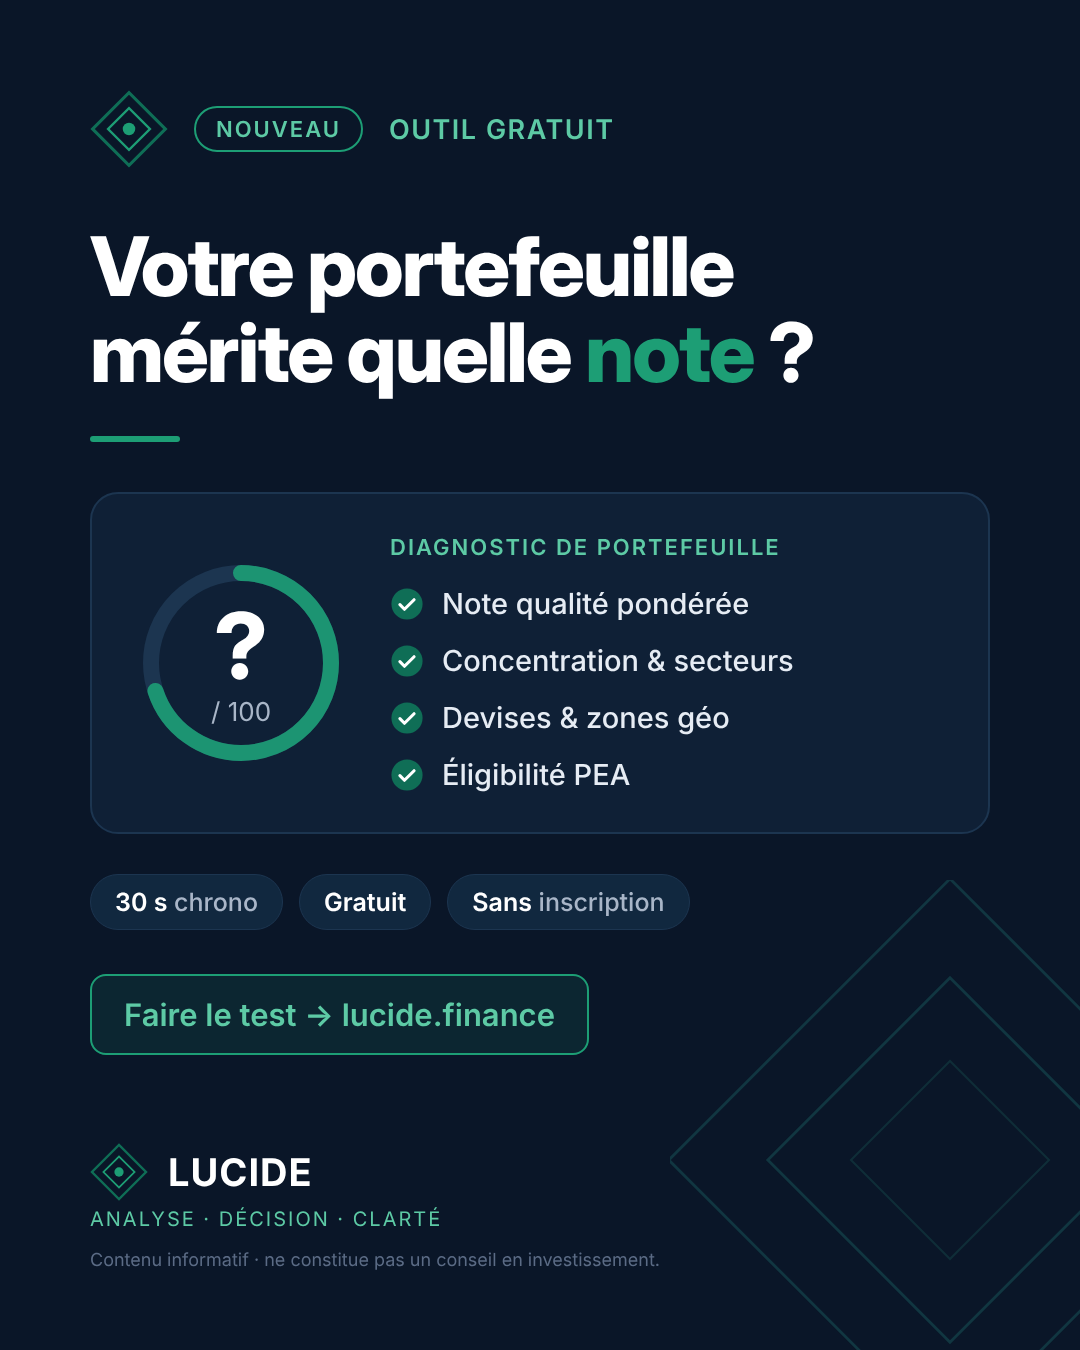
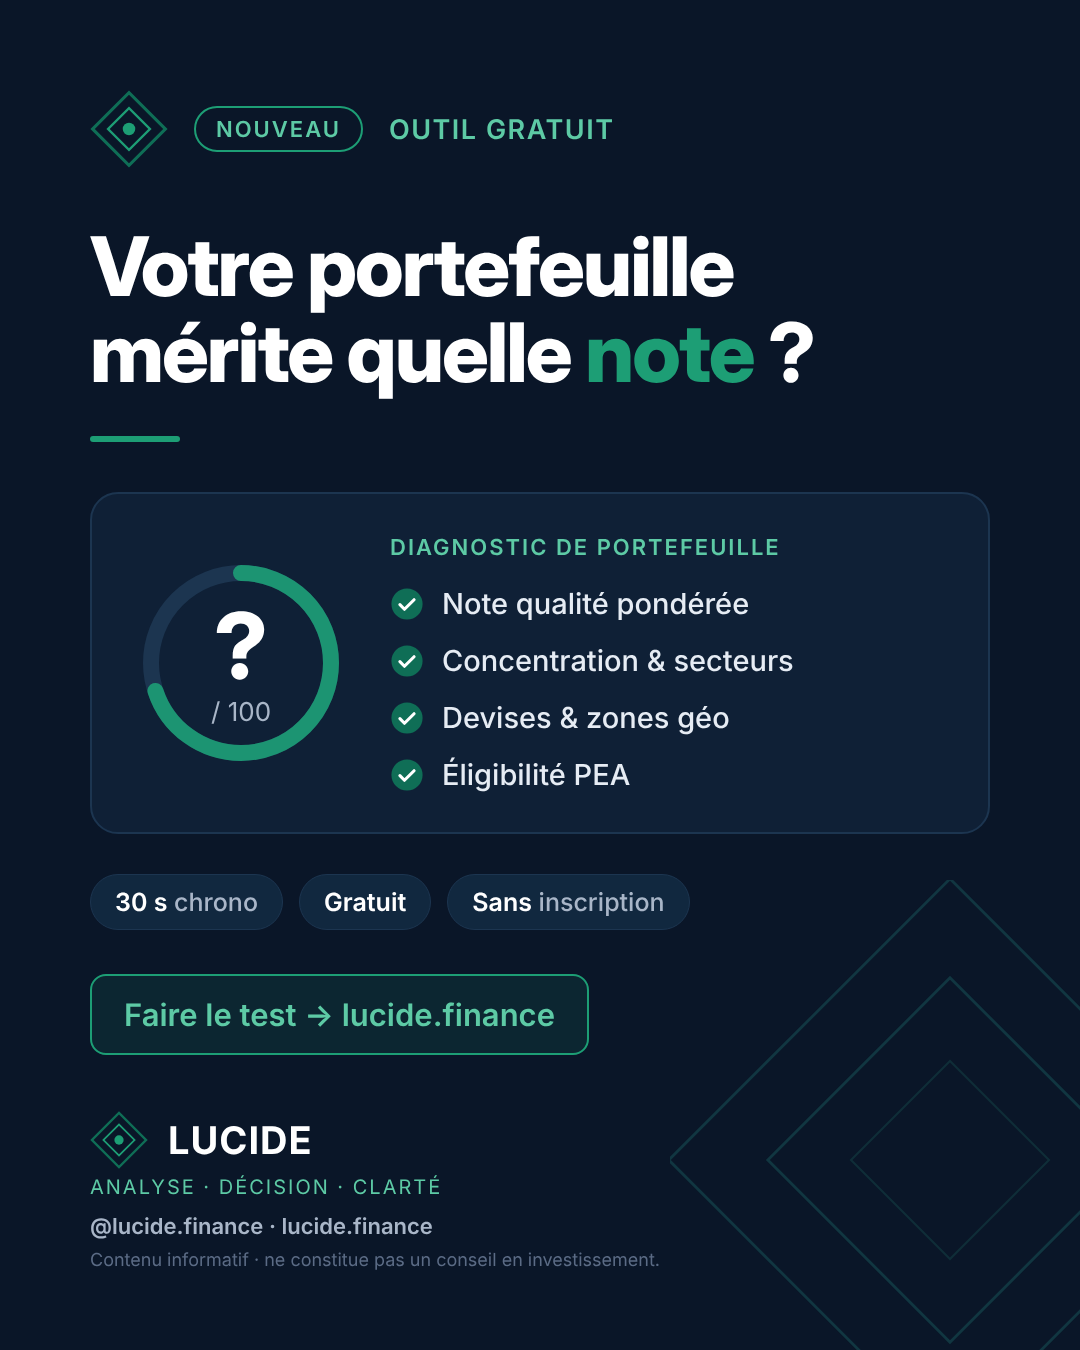
Outil de rendu + post 2026-10-06 (diagnostic portefeuille)

Changed region(s): [[0.0917, 0.8089, 0.3972, 0.9333]]

diff --git a/posts/2026-10-06_c3_01/visual.html b/posts/2026-10-06_c3_01/visual.html
@@ -1,0 +1,56 @@
+<!doctype html><html><head><meta charset="utf-8"><style>
+*{margin:0;padding:0;box-sizing:border-box}
+body{width:1080px;height:1350px;background:#0A1628;font-family:Inter,sans-serif;color:#fff;position:relative;overflow:hidden}
+.wrap{position:absolute;inset:90px 90px 80px 90px;display:flex;flex-direction:column}
+.eyebrow{display:flex;align-items:center;gap:26px;color:#5DCAA5;font-size:27px;font-weight:600;letter-spacing:1.5px}
+.pill{border:2px solid #1D9E75;border-radius:999px;padding:8px 20px;font-size:22px;letter-spacing:2px}
+h1{font-family:'Inter Display',Inter,sans-serif;font-weight:800;line-height:1.05;letter-spacing:-2px;margin-top:56px}
+h1 em,.green{font-style:normal;color:#1D9E75}
+.muted{color:#A9B6C8}
+.rule{width:90px;height:6px;background:#1D9E75;border-radius:3px;margin:40px 0 0}
+.mid{margin-top:50px}
+.card{background:#0F2036;border:2px solid #1C3550;border-radius:28px;padding:40px 44px;display:flex;gap:44px;align-items:center}
+.card.col{flex-direction:column;align-items:flex-start;gap:22px}
+.gauge{position:relative;width:210px;height:210px;flex:none}
+.gauge .v{position:absolute;inset:0;display:flex;flex-direction:column;align-items:center;justify-content:center}
+.gauge .q{font-family:'Inter Display';font-size:92px;font-weight:800;line-height:1}
+.gauge .s{font-size:26px;color:#A9B6C8;margin-top:4px}
+.rows{display:flex;flex-direction:column;gap:22px}
+.t{font-size:22px;letter-spacing:2px;color:#5DCAA5;font-weight:600;margin-bottom:4px}
+.row{display:flex;align-items:center;gap:18px;font-size:29px;font-weight:500;color:#E6ECF4}
+.stat .n{font-family:'Inter Display';font-size:120px;font-weight:800;line-height:1;color:#1D9E75}
+.stat .l{font-size:30px;color:#E6ECF4;margin-top:10px;line-height:1.3}
+.quote{font-size:44px;font-weight:600;line-height:1.3;color:#E6ECF4}
+.quote:before{content:'« ';color:#1D9E75} .quote:after{content:' »';color:#1D9E75}
+.vs{display:flex;gap:24px;width:100%}
+.vs>div{flex:1;background:#0F2036;border:2px solid #1C3550;border-radius:24px;padding:32px;font-size:28px;line-height:1.35;color:#E6ECF4}
+.vs .b{border-color:#1D9E75}
+.vs .k{font-size:22px;letter-spacing:2px;font-weight:600;margin-bottom:14px;color:#A9B6C8}
+.vs .b .k{color:#5DCAA5}
+.chips{display:flex;gap:16px;margin-top:40px;flex-wrap:wrap}
+.chip{background:#11283f;border:1.5px solid #1C3550;border-radius:999px;padding:12px 24px;font-size:25px;color:#A9B6C8;font-weight:500}
+.chip b{color:#fff;font-weight:600}
+.cta{margin-top:44px;align-self:flex-start;border:2px solid #1D9E75;background:rgba(29,158,117,.12);color:#5DCAA5;border-radius:16px;padding:20px 32px;font-size:31px;font-weight:600}
+.foot{margin-top:auto}
+.brand{display:flex;align-items:center;gap:20px}
+.brand .n{font-size:38px;font-weight:700;letter-spacing:1px}
+.tag{color:#5DCAA5;font-size:20px;letter-spacing:2px;margin-top:6px}
+.handle{color:#A9B6C8;font-size:22px;font-weight:600;margin-top:14px}
+.disc{color:#5B6B85;font-size:18px;margin-top:10px}
+.deco{position:absolute;right:-150px;top:880px;opacity:.9}
+</style></head><body>
+<svg class="deco" viewBox="0 0 400 400" width="560" height="560"><rect x="58" y="58" width="284" height="284" transform="rotate(45 200 200)" fill="none" stroke="#123a44" stroke-width="2"/><rect x="108" y="108" width="184" height="184" transform="rotate(45 200 200)" fill="none" stroke="#123a44" stroke-width="2"/><rect x="150" y="150" width="100" height="100" transform="rotate(45 200 200)" fill="none" stroke="#10303a" stroke-width="1.5"/></svg>
+<div class="wrap">
+  <div class="eyebrow"><svg viewBox="0 0 100 100" width="78" height="78"><rect x="17" y="17" width="66" height="66" transform="rotate(45 50 50)" fill="none" stroke="#0F6E56" stroke-width="4"/><rect x="31" y="31" width="38" height="38" transform="rotate(45 50 50)" fill="none" stroke="#1D9E75" stroke-width="3"/><circle cx="50" cy="50" r="8" fill="#1D9E75"/></svg><span class="pill">NOUVEAU</span><span>OUTIL GRATUIT</span></div>
+  <h1 style="font-size:82px">Votre portefeuille<br>mérite quelle <em>note</em>&nbsp;?</h1>
+  <div class="rule"></div>
+  <div class="mid"><div class="card"><div class="gauge"><svg width="210" height="210" viewBox="0 0 210 210"><circle cx="105" cy="105" r="90" fill="none" stroke="#1C3550" stroke-width="16"/><circle cx="105" cy="105" r="90" fill="none" stroke="#1D9E75" stroke-width="16" stroke-linecap="round" stroke-dasharray="565" stroke-dashoffset="170" transform="rotate(-90 105 105)" opacity=".9"/></svg><div class="v"><div class="q">?</div><div class="s">/ 100</div></div></div><div class="rows"><div class="t">DIAGNOSTIC DE PORTEFEUILLE</div><div class="row"><svg width="34" height="34" viewBox="0 0 24 24"><circle cx="12" cy="12" r="11" fill="#0F6E56"/><path d="M7 12.5l3.2 3.2L17 9" fill="none" stroke="#fff" stroke-width="2.2" stroke-linecap="round" stroke-linejoin="round"/></svg>Note qualité pondérée</div><div class="row"><svg width="34" height="34" viewBox="0 0 24 24"><circle cx="12" cy="12" r="11" fill="#0F6E56"/><path d="M7 12.5l3.2 3.2L17 9" fill="none" stroke="#fff" stroke-width="2.2" stroke-linecap="round" stroke-linejoin="round"/></svg>Concentration &amp; secteurs</div><div class="row"><svg width="34" height="34" viewBox="0 0 24 24"><circle cx="12" cy="12" r="11" fill="#0F6E56"/><path d="M7 12.5l3.2 3.2L17 9" fill="none" stroke="#fff" stroke-width="2.2" stroke-linecap="round" stroke-linejoin="round"/></svg>Devises &amp; zones géo</div><div class="row"><svg width="34" height="34" viewBox="0 0 24 24"><circle cx="12" cy="12" r="11" fill="#0F6E56"/><path d="M7 12.5l3.2 3.2L17 9" fill="none" stroke="#fff" stroke-width="2.2" stroke-linecap="round" stroke-linejoin="round"/></svg>Éligibilité PEA</div></div></div></div>
+  <div class="chips"><span class="chip"><b>30 s</b> chrono</span><span class="chip"><b>Gratuit</b></span><span class="chip"><b>Sans</b> inscription</span></div>
+  <div class="cta">Faire le test &rarr; lucide.finance</div>
+  <div class="foot">
+    <div class="brand"><svg viewBox="0 0 100 100" width="58" height="58"><rect x="17" y="17" width="66" height="66" transform="rotate(45 50 50)" fill="none" stroke="#0F6E56" stroke-width="4"/><rect x="31" y="31" width="38" height="38" transform="rotate(45 50 50)" fill="none" stroke="#1D9E75" stroke-width="3"/><circle cx="50" cy="50" r="8" fill="#1D9E75"/></svg><span class="n">LUCIDE</span></div>
+    <div class="tag">ANALYSE · DÉCISION · CLARTÉ</div>
+    <div class="handle">@lucide.finance · lucide.finance</div>
+    <div class="disc">Contenu informatif · ne constitue pas un conseil en investissement.</div>
+  </div>
+</div></body></html>

diff --git a/tools/render.py b/tools/render.py
@@ -1,0 +1,152 @@
+"""Rendu des visuels Lucide (LinkedIn PNG + Instagram JPEG, 1080x1350, ratio 4:5).
+
+Usage : python3 tools/render.py posts/<dossier>/spec.json
+Produit linkedin.png et instagram.jpg dans le même dossier.
+
+spec.json :
+{
+  "pill": "NOUVEAU",                 # badge encadré (optionnel, "" pour aucun)
+  "eyebrow": "OUTIL GRATUIT",        # sur-titre vert en majuscules
+  "title": "Votre portefeuille<br>mérite quelle <em>note</em>&nbsp;?",  # <em> = mot en vert
+  "title_size": 82,                  # optionnel (64 à 96 selon longueur)
+  "middle_html": "...",              # bloc central libre (voir classes CSS ci-dessous)
+  "chips": ["<b>30 s</b> chrono", "<b>Gratuit</b>"],   # optionnel
+  "cta": "Faire le test &rarr; lucide.finance",
+  "alt": "texte alternatif"          # utilisé par le post, pas par le rendu
+}
+
+Classes CSS disponibles pour middle_html :
+  .card            panneau arrondi (fond #0F2036, bordure #1C3550), flex horizontal
+  .card.col        même panneau en colonne
+  .gauge + svg     jauge circulaire (voir gauge_svg dans ce fichier pour le motif)
+  .rows/.row/.t    liste à puces avec check() ; .t = sous-titre vert majuscules
+  .stat            grand chiffre (.stat .n = nombre, .stat .l = libellé)
+  .quote           citation en grand, guillemets verts
+  .vs              comparaison deux colonnes (.vs .a / .vs .b, .vs .k = label)
+  .muted / .green  couleurs de texte
+  {CHECK}          remplacé par l'icône check verte
+"""
+import json
+import sys
+from pathlib import Path
+from playwright.sync_api import sync_playwright
+
+C = {
+    "bg": "#0A1628", "panel": "#0F2036", "line": "#1C3550", "green": "#1D9E75",
+    "green_dark": "#0F6E56", "green_light": "#5DCAA5", "white": "#FFFFFF",
+    "muted": "#A9B6C8", "dim": "#5B6B85",
+}
+
+
+def logo(size):
+    return (f'<svg viewBox="0 0 100 100" width="{size}" height="{size}">'
+            f'<rect x="17" y="17" width="66" height="66" transform="rotate(45 50 50)" fill="none" stroke="{C["green_dark"]}" stroke-width="4"/>'
+            f'<rect x="31" y="31" width="38" height="38" transform="rotate(45 50 50)" fill="none" stroke="{C["green"]}" stroke-width="3"/>'
+            f'<circle cx="50" cy="50" r="8" fill="{C["green"]}"/></svg>')
+
+
+CHECK = (f'<svg width="34" height="34" viewBox="0 0 24 24"><circle cx="12" cy="12" r="11" fill="{C["green_dark"]}"/>'
+         '<path d="M7 12.5l3.2 3.2L17 9" fill="none" stroke="#fff" stroke-width="2.2" stroke-linecap="round" stroke-linejoin="round"/></svg>')
+
+DECO = ('<svg class="deco" viewBox="0 0 400 400" width="560" height="560">'
+        '<rect x="58" y="58" width="284" height="284" transform="rotate(45 200 200)" fill="none" stroke="#123a44" stroke-width="2"/>'
+        '<rect x="108" y="108" width="184" height="184" transform="rotate(45 200 200)" fill="none" stroke="#123a44" stroke-width="2"/>'
+        '<rect x="150" y="150" width="100" height="100" transform="rotate(45 200 200)" fill="none" stroke="#10303a" stroke-width="1.5"/></svg>')
+
+
+def gauge_svg(label="?", sub="/ 100", pct=0.7):
+    """Jauge circulaire ; pct = part remplie (0-1)."""
+    off = round(565 * (1 - pct))
+    return (f'<div class="gauge"><svg width="210" height="210" viewBox="0 0 210 210">'
+            f'<circle cx="105" cy="105" r="90" fill="none" stroke="{C["line"]}" stroke-width="16"/>'
+            f'<circle cx="105" cy="105" r="90" fill="none" stroke="{C["green"]}" stroke-width="16" stroke-linecap="round" '
+            f'stroke-dasharray="565" stroke-dashoffset="{off}" transform="rotate(-90 105 105)" opacity=".9"/></svg>'
+            f'<div class="v"><div class="q">{label}</div><div class="s">{sub}</div></div></div>')
+
+
+CSS = f"""
+*{{margin:0;padding:0;box-sizing:border-box}}
+body{{width:1080px;height:1350px;background:{C['bg']};font-family:Inter,sans-serif;color:#fff;position:relative;overflow:hidden}}
+.wrap{{position:absolute;inset:90px 90px 80px 90px;display:flex;flex-direction:column}}
+.eyebrow{{display:flex;align-items:center;gap:26px;color:{C['green_light']};font-size:27px;font-weight:600;letter-spacing:1.5px}}
+.pill{{border:2px solid {C['green']};border-radius:999px;padding:8px 20px;font-size:22px;letter-spacing:2px}}
+h1{{font-family:'Inter Display',Inter,sans-serif;font-weight:800;line-height:1.05;letter-spacing:-2px;margin-top:56px}}
+h1 em,.green{{font-style:normal;color:{C['green']}}}
+.muted{{color:{C['muted']}}}
+.rule{{width:90px;height:6px;background:{C['green']};border-radius:3px;margin:40px 0 0}}
+.mid{{margin-top:50px}}
+.card{{background:{C['panel']};border:2px solid {C['line']};border-radius:28px;padding:40px 44px;display:flex;gap:44px;align-items:center}}
+.card.col{{flex-direction:column;align-items:flex-start;gap:22px}}
+.gauge{{position:relative;width:210px;height:210px;flex:none}}
+.gauge .v{{position:absolute;inset:0;display:flex;flex-direction:column;align-items:center;justify-content:center}}
+.gauge .q{{font-family:'Inter Display';font-size:92px;font-weight:800;line-height:1}}
+.gauge .s{{font-size:26px;color:{C['muted']};margin-top:4px}}
+.rows{{display:flex;flex-direction:column;gap:22px}}
+.t{{font-size:22px;letter-spacing:2px;color:{C['green_light']};font-weight:600;margin-bottom:4px}}
+.row{{display:flex;align-items:center;gap:18px;font-size:29px;font-weight:500;color:#E6ECF4}}
+.stat .n{{font-family:'Inter Display';font-size:120px;font-weight:800;line-height:1;color:{C['green']}}}
+.stat .l{{font-size:30px;color:#E6ECF4;margin-top:10px;line-height:1.3}}
+.quote{{font-size:44px;font-weight:600;line-height:1.3;color:#E6ECF4}}
+.quote:before{{content:'« ';color:{C['green']}}} .quote:after{{content:' »';color:{C['green']}}}
+.vs{{display:flex;gap:24px;width:100%}}
+.vs>div{{flex:1;background:{C['panel']};border:2px solid {C['line']};border-radius:24px;padding:32px;font-size:28px;line-height:1.35;color:#E6ECF4}}
+.vs .b{{border-color:{C['green']}}}
+.vs .k{{font-size:22px;letter-spacing:2px;font-weight:600;margin-bottom:14px;color:{C['muted']}}}
+.vs .b .k{{color:{C['green_light']}}}
+.chips{{display:flex;gap:16px;margin-top:40px;flex-wrap:wrap}}
+.chip{{background:#11283f;border:1.5px solid {C['line']};border-radius:999px;padding:12px 24px;font-size:25px;color:{C['muted']};font-weight:500}}
+.chip b{{color:#fff;font-weight:600}}
+.cta{{margin-top:44px;align-self:flex-start;border:2px solid {C['green']};background:rgba(29,158,117,.12);color:{C['green_light']};border-radius:16px;padding:20px 32px;font-size:31px;font-weight:600}}
+.foot{{margin-top:auto}}
+.brand{{display:flex;align-items:center;gap:20px}}
+.brand .n{{font-size:38px;font-weight:700;letter-spacing:1px}}
+.tag{{color:{C['green_light']};font-size:20px;letter-spacing:2px;margin-top:6px}}
+.handle{{color:{C['muted']};font-size:22px;font-weight:600;margin-top:14px}}
+.disc{{color:{C['dim']};font-size:18px;margin-top:10px}}
+.deco{{position:absolute;right:-150px;top:880px;opacity:.9}}
+"""
+
+
+def build_html(spec):
+    pill = f'<span class="pill">{spec["pill"]}</span>' if spec.get("pill") else ""
+    chips = "".join(f'<span class="chip">{c}</span>' for c in spec.get("chips", []))
+    chips_html = f'<div class="chips">{chips}</div>' if chips else ""
+    cta = f'<div class="cta">{spec["cta"]}</div>' if spec.get("cta") else ""
+    middle = spec.get("middle_html", "").replace("{CHECK}", CHECK)
+    return f"""<!doctype html><html><head><meta charset="utf-8"><style>{CSS}</style></head><body>
+{DECO}
+<div class="wrap">
+  <div class="eyebrow">{logo(78)}{pill}<span>{spec.get('eyebrow', '')}</span></div>
+  <h1 style="font-size:{spec.get('title_size', 82)}px">{spec['title']}</h1>
+  <div class="rule"></div>
+  <div class="mid">{middle}</div>
+  {chips_html}
+  {cta}
+  <div class="foot">
+    <div class="brand">{logo(58)}<span class="n">LUCIDE</span></div>
+    <div class="tag">ANALYSE · DÉCISION · CLARTÉ</div>
+    <div class="handle">@lucide.finance · lucide.finance</div>
+    <div class="disc">Contenu informatif · ne constitue pas un conseil en investissement.</div>
+  </div>
+</div></body></html>"""
+
+
+def render(spec_path):
+    spec_path = Path(spec_path)
+    spec = json.loads(spec_path.read_text(encoding="utf-8"))
+    out = spec_path.parent
+    html = build_html(spec)
+    (out / "visual.html").write_text(html, encoding="utf-8")
+    with sync_playwright() as p:
+        b = p.chromium.launch()
+        pg = b.new_page(viewport={"width": 1080, "height": 1350})
+        pg.set_content(html)
+        pg.wait_for_timeout(400)
+        pg.screenshot(path=str(out / "linkedin.png"))
+        pg.screenshot(path=str(out / "instagram.jpg"), type="jpeg", quality=92)
+        b.close()
+    print(out / "linkedin.png", out / "instagram.jpg")
+
+
+if __name__ == "__main__":
+    render(sys.argv[1])

diff --git a/README.md b/README.md
@@ -1,3 +1,8 @@
 # Lucide social assets
 
-Visuels publics des posts LinkedIn / Instagram de Lucide (lucide.finance). Généré automatiquement.
+Visuels publics des posts LinkedIn / Instagram de Lucide (lucide.finance), générés automatiquement par Claude.
+
+- `tools/render.py` : rendu des visuels à la charte Lucide (voir la docstring pour le format de `spec.json`).
+- `posts/<AAAA-MM-JJ>_<id>/` : un dossier par post (spec.json, linkedin.png, instagram.jpg, linkedin.txt, instagram_caption.txt).
+
+URL publique d'une image : `https://raw.githubusercontent.com/Maximecallens/lucide-social-assets/main/posts/<dossier>/linkedin.png`
